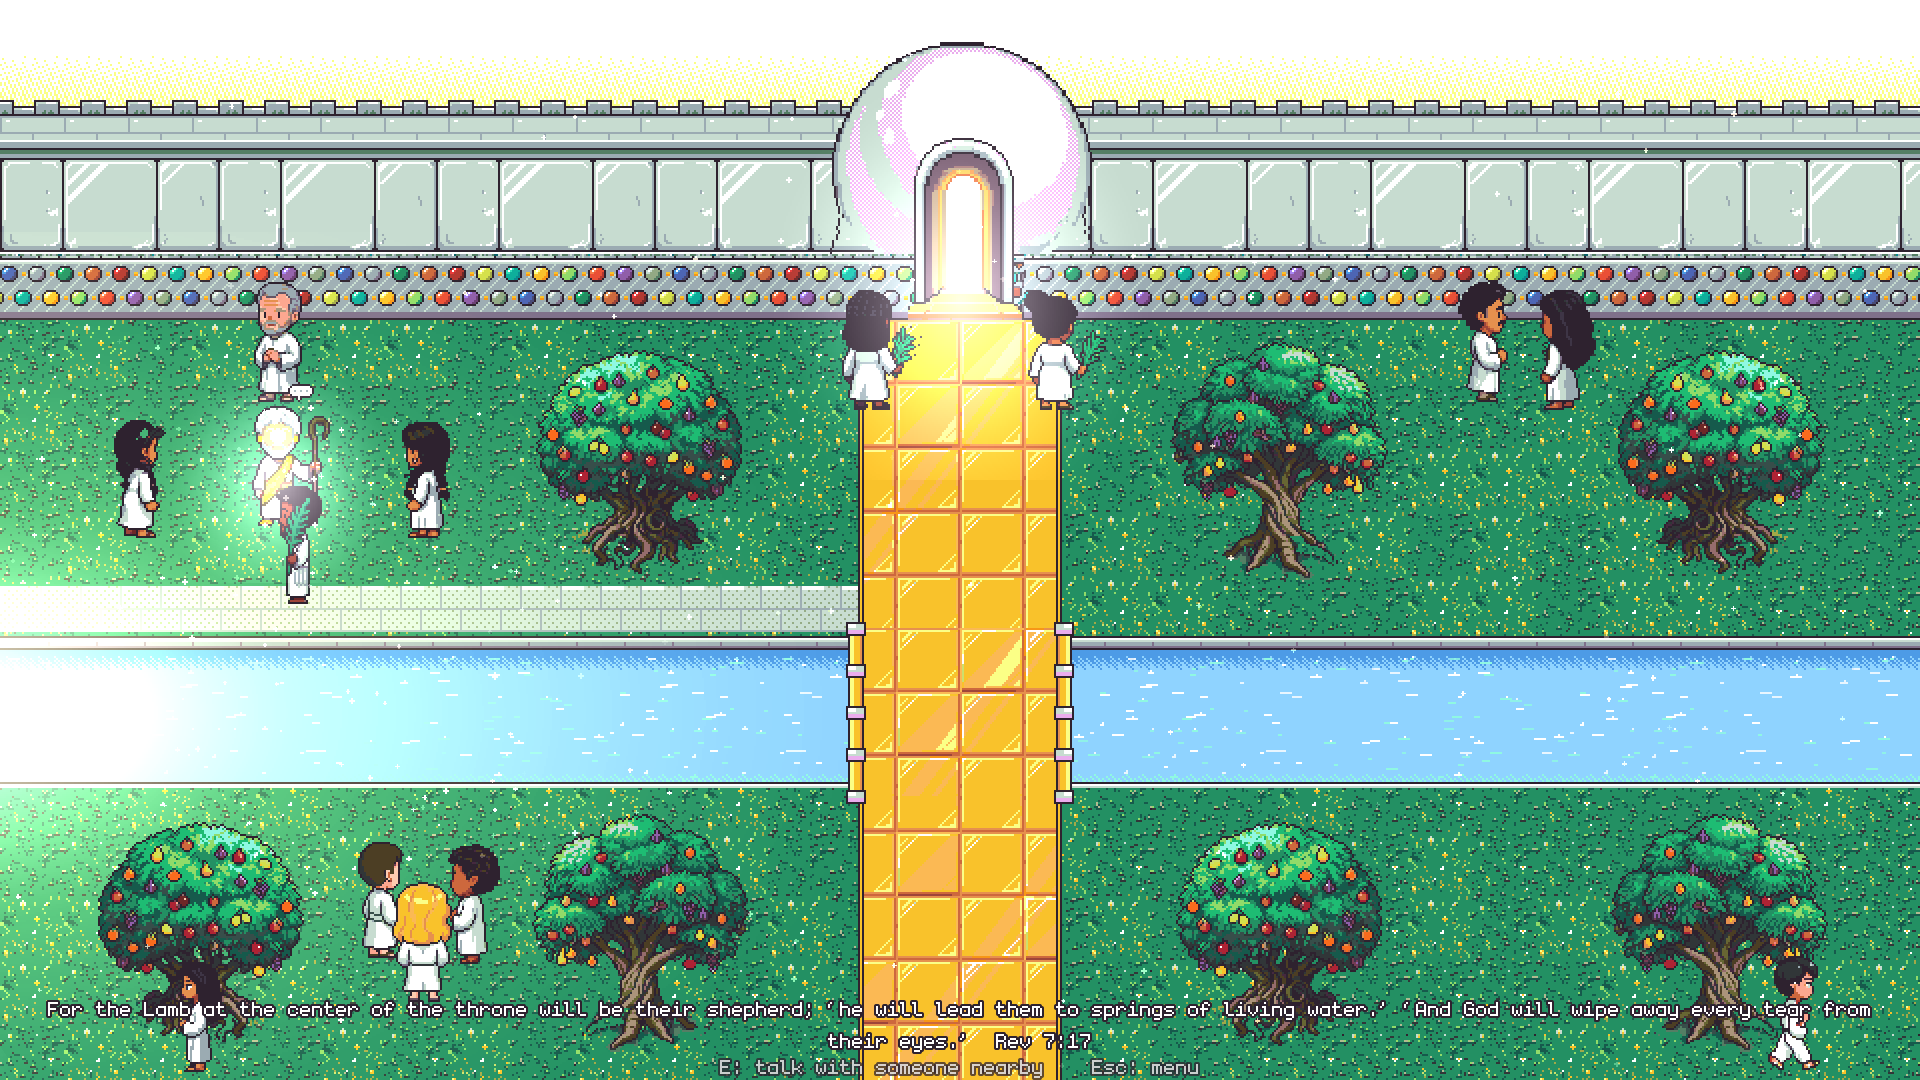
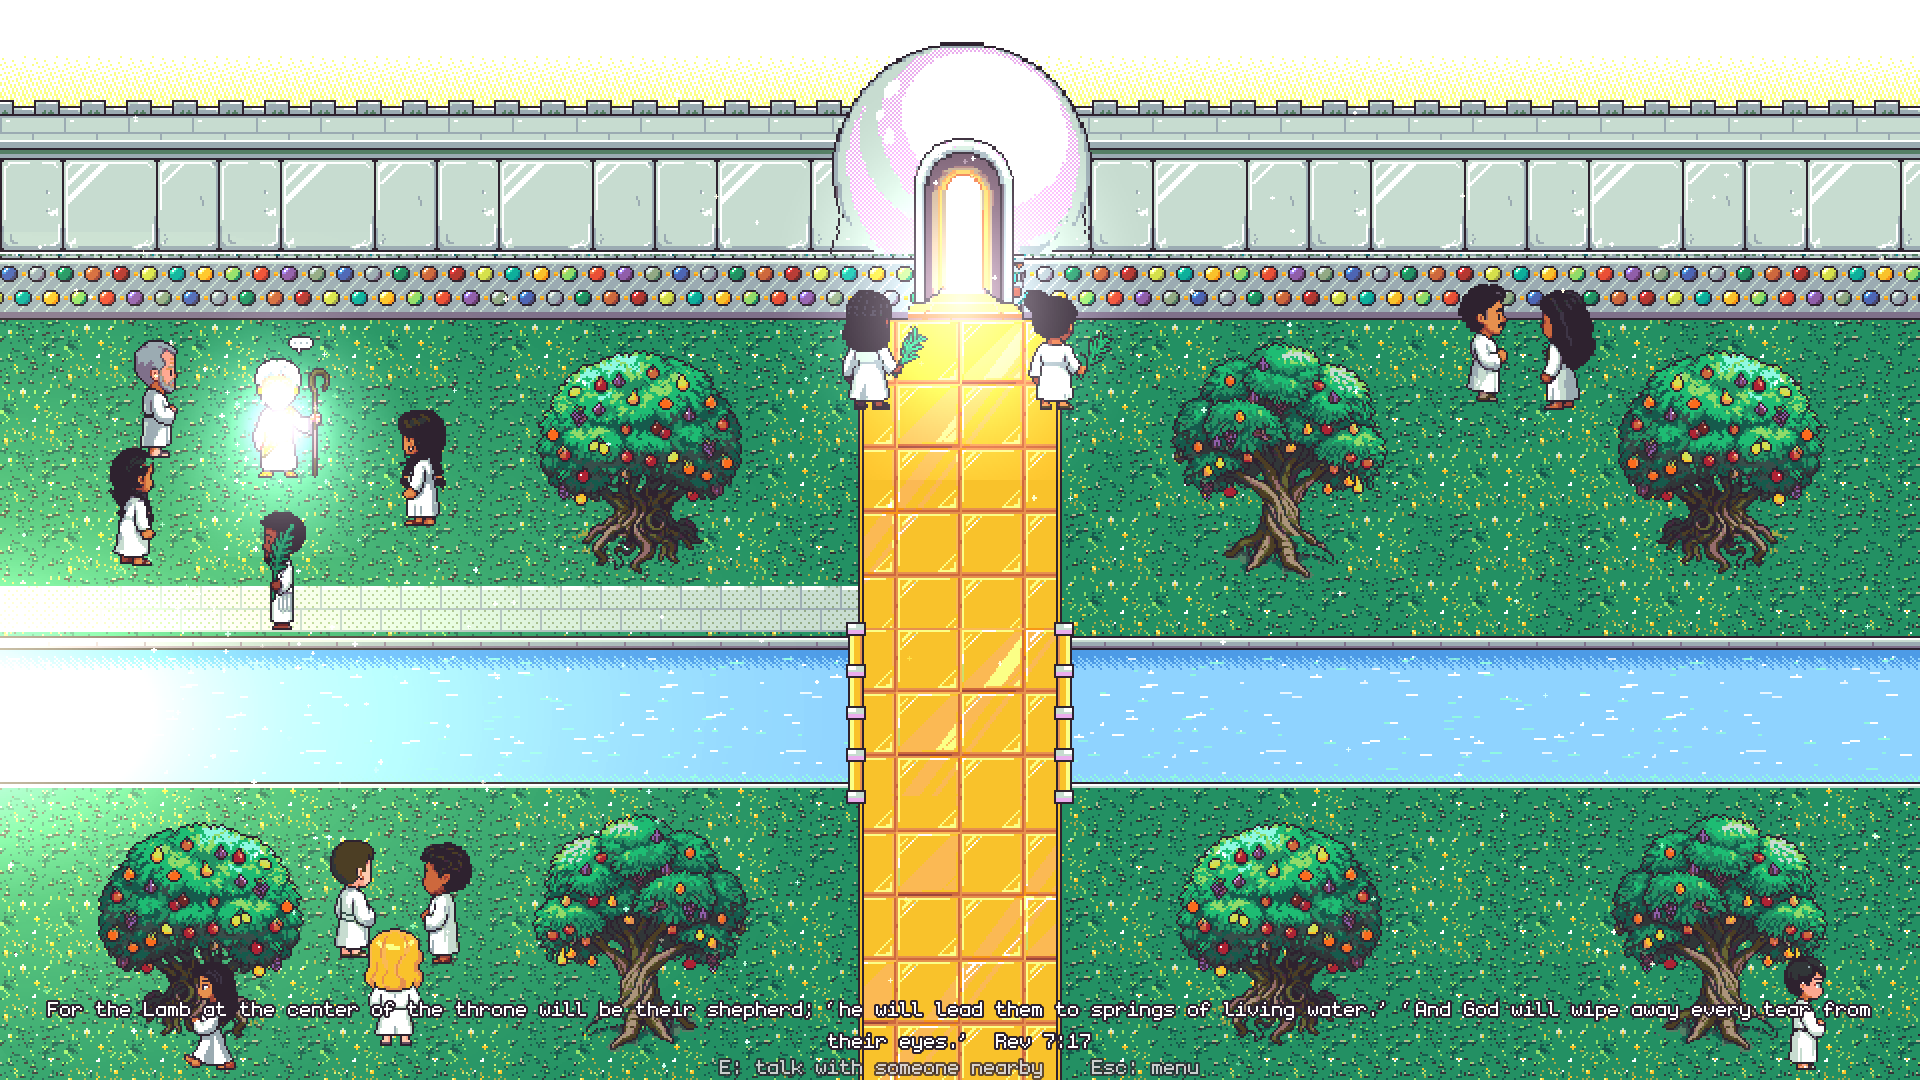
Heaven: clear space around the Shepherd, character overlap check
Claude-Session: https://claude.ai/code/session_01YABBJVPWvaqtn34m5VQVCp

diff --git a/tools/scan_layout.py b/tools/scan_layout.py
@@ -59,6 +59,58 @@ def earth():
         if touches(path, (x - w / 2 + 20, base - 30, x + w / 2 - 20, base - 16)): issues.append(f'earth house {n}: on a path')
 
 
+ROWS = {'down': 0, 'up': 1, 'left': 2, 'right': 2}
+_boxes = {}
+
+
+def sprite_box(sheet, facing, x, y):
+    """World box of a standing character's opaque pixels (origin at the feet, frame centred on x)."""
+    key = (sheet, facing)
+    if key not in _boxes:
+        path = 'game/art/hero.png' if sheet == 'PLAYER' else f'game/art/people/{sheet}.png'
+        a = np.array(Image.open(path).convert('RGBA'))[ROWS[facing] * 64:ROWS[facing] * 64 + 64, :64, 3]
+        ys, xs = np.nonzero(a)
+        x0, x1 = xs.min() - 32, xs.max() + 1 - 32
+        if facing == 'right': x0, x1 = -x1, -x0
+        _boxes[key] = (x0, ys.min() - ys.max() - 1, x1, 0)
+    b = _boxes[key]
+    return (x + b[0], y + b[1], x + b[2], y + b[3])
+
+
+def overlaps():
+    """No two characters' sprite boxes may overlap by more than 10% of the smaller box, in any scene."""
+    for scene in ('city', 'earth'):
+        c = json.load(open(f'game/data/{scene}.json'))
+        chars = [(f'p{q[0]:02d}', q[1], q[2], q[4]) for q in c['people']]
+        if c.get('shepherd'):
+            sh = c['shepherd']; chars.append((sh['sheet'], sh['at'][0], sh['at'][1], sh['facing']))
+        # where the player is placed to stand still: demo pauses and fast-travel spots
+        prev = c['demo'].get('start', c['player_start'])
+        for w in c['demo']['waypoints']:          # facing = direction of the last move into the stop
+            dx, dy = w[0] - prev[0], w[1] - prev[1]
+            face = ('right' if dx > 0 else 'left') if abs(dx) > abs(dy) else ('down' if dy > 0 else 'up')
+            if w[2] > 0: chars.append(('PLAYER', w[0], w[1], face))
+            prev = w
+        tscn = {'city': 'res://main.tscn', 'earth': 'res://earth.tscn'}[scene]
+        for pl in json.load(open('game/data/places.json'))['places']:
+            if pl['scene'] == tscn: chars.append(('PLAYER', pl['at'][0], pl['at'][1], pl.get('face', 'down')))
+        boxes = [(n, sprite_box(n, f, x, y)) for n, x, y, f in chars]
+        if scene == 'city':                          # nobody (player stops included) standing behind a garden canopy
+            for n, b in boxes:
+                for t in c['trees']:
+                    cb = rect((t[1], t[2]), CANOPY)
+                    if b[3] < t[2] and b[3] > cb[1] and min(b[2], cb[2]) - max(b[0], cb[0]) > 2 and b[3] <= 540:
+                        issues.append(f'city: {n} at foot y {b[3]} stands behind the tree canopy at {t[1]},{t[2]}')
+        for i, (n, a) in enumerate(boxes):
+            for m, b in boxes[i + 1:]:
+                if n == m == 'PLAYER': continue
+                w = min(a[2], b[2]) - max(a[0], b[0]); h = min(a[3], b[3]) - max(a[1], b[1])
+                if w <= 0 or h <= 0: continue
+                small = min((a[2] - a[0]) * (a[3] - a[1]), (b[2] - b[0]) * (b[3] - b[1]))
+                if w * h > 0.10 * small:
+                    issues.append(f'{scene}: {n} and {m} overlap {100 * w * h / small:.0f}% of the smaller sprite')
+
+
 def district():
     L = json.load(open('game/art/district/layout.json'))
     s0, s1 = L['street']
@@ -70,6 +122,6 @@ def district():
 
 
 if __name__ == '__main__':
-    garden(); earth(); district()
+    garden(); earth(); district(); overlaps()
     for i in issues: print(i)
     print(f'{len(issues)} layout issues')

diff --git a/tools/guard.py b/tools/guard.py
@@ -1,7 +1,7 @@
 """HARD budget guard for the heaven demo. Every PixelLab POST must go through paid_post().
 Floor: subscription generations may not drop below FLOOR. USD credits must not change."""
 import json, urllib.request, urllib.error, sys, time
-B="https://api.pixellab.ai/v2"; START=189.5; CAP=15.0; FLOOR=START-CAP; USD0=2.18083018988485
+B="https://api.pixellab.ai/v2"; START=178.5; CAP=0.0; FLOOR=START-CAP; USD0=2.18083018988485
 LOG="/tmp/claude-0/-home-user-my-own-art/cb019c91-d4b5-5ec5-a8ec-8aef6ba03cf6/scratchpad/heaven/spend_log.txt"
 def _req(method,path,body=None):
     r=urllib.request.Request(B+path,data=None if body is None else json.dumps(body).encode(),method=method,

diff --git a/HEAVEN_NOTES.md b/HEAVEN_NOTES.md
@@ -19,7 +19,7 @@ Godot 4.7.2 binary: `scratchpad/godot/Godot_v4.7.2-stable_linux.x86_64`. Project
 - Angels may have wings, but halos were removed. The four creatures have six wings with "eyes" drawn as jewel motifs (not horror). The Lamb is a white lamb with a 2-px muted mark only; the seven horns and seven eyes were omitted.
 - Captions and NPC talk use **NIV (2011)** Scripture only, no invented doctrine or backstories. All verse text is in `game/data/verses.json` (entries: ref, cited verses, exact fragments, '...' for deliberate omissions, '\n' line breaks); scene data refers to it as `{key}` / `{key|block}` (resolved by `Scripture` in `SceneData.load_json`). Never type NIV text from memory: `tools/fetch_niv.py` caches whole chapters from Bible Gateway into `art/niv_source.json` — a **local check cache only: never ship it in the game or the repo**; `tools/check_verses.py` fails on any fragment that is not an exact substring, records the verse count (51 now; Biblica's limit is 500), and exits 0 with a note when the cache is absent. The Biblica notice is on the menu, in README and CREDITS.md.
 - **No kneel poses anywhere** (user decision): every NPC stands, the Shepherd's group stands, and worship in the throne room is the music swell + "Holy, holy, holy" (Rev 4:8) text while the player stands facing the throne (hint "E: worship"). The hymn is the NICAEA tune (Dykes 1861, public domain), instrumental only. Kneel art, build code and game code were deleted.
-- **The Shepherd (Rev 7:17)** is rendered per Rev 1:13-16: robe to the feet, golden sash, white hair, bronze feet, and the face as light only (white → fbff86 → f9c22b ramp radiating from the face centre, no features). Staff; no sword, no stars, no wound marks. Additive glow + sparkles. People stand at a respectful distance facing him.
+- **The Shepherd (Rev 7:17)** is rendered per Rev 1:13-16: robe to the feet, golden sash, white hair, bronze feet, and the face as light only (white → fbff86 → f9c22b ramp radiating from the face centre, no features). Staff; no sword, no stars, no wound marks. Additive glow + sparkles. People stand at a respectful distance facing him: clear space of about one body width on all sides, a loose semicircle open to the riverside path (p15 upper left, p06 lower left, p10 right), nobody in front of or over him; the player talks from the path (his talk reach is 80 px). Glow ~15% larger plus a brighter core so he reads at 1x.
 - **Skin:** exactly one skin ramp per character (front, side, back, walk), taken from the approved front idle frame after cleaning; clean faces (eyes readable on deep tones, no blotches). `tools/check_skin.py` must report 1 for every character.
 - The headscarf woman (p04) was removed entirely (data, sheets, build outputs, her only verse).
 - Physical sense: no floating objects, no one in water, doors face paths, collision matches the visuals. Check placements programmatically (see the earth sanity check).
@@ -70,7 +70,7 @@ All build scripts import shared helpers from **`art/common.py`**: palette (`PALA
 | `art/audio/synth.py` | **all audio** (procedural, CC0) into `game/audio/` |
 | `tools/fetch_niv.py`, `tools/check_verses.py` | NIV source cache + exact-text check of `game/data/verses.json` |
 | `tools/extend_font.py` | adds ‘ ’ “ ” – — … ® ™ é pixel glyphs to monogram → `game/fonts/monogram_ext.ttf` |
-| `tools/scan_layout.py` | layout sanity scan across scenes |
+| `tools/scan_layout.py` | layout sanity scan across scenes; also **no two characters' sprite boxes (opaque pixels, by facing) may overlap >10%** in city/earth, counting the player's demo stops and fast-travel spots, and nobody stands behind a garden canopy |
 | `art/mock*.py` | quick PIL composites to check layouts before Godot |
 
 Order after a palette or helper change: build_char → build_walkers → build_people4 → build_shepherd → **fix_skin** → build_district → build_trees → build_scene → build_throne_sprites → build_throne_scene → build_wings → build_earth → skin_sheets, then `python3 -I tools/check_skin.py` and `godot --headless --path game --import`. fix_skin must run after any people/hero rebuild and before build_district.
